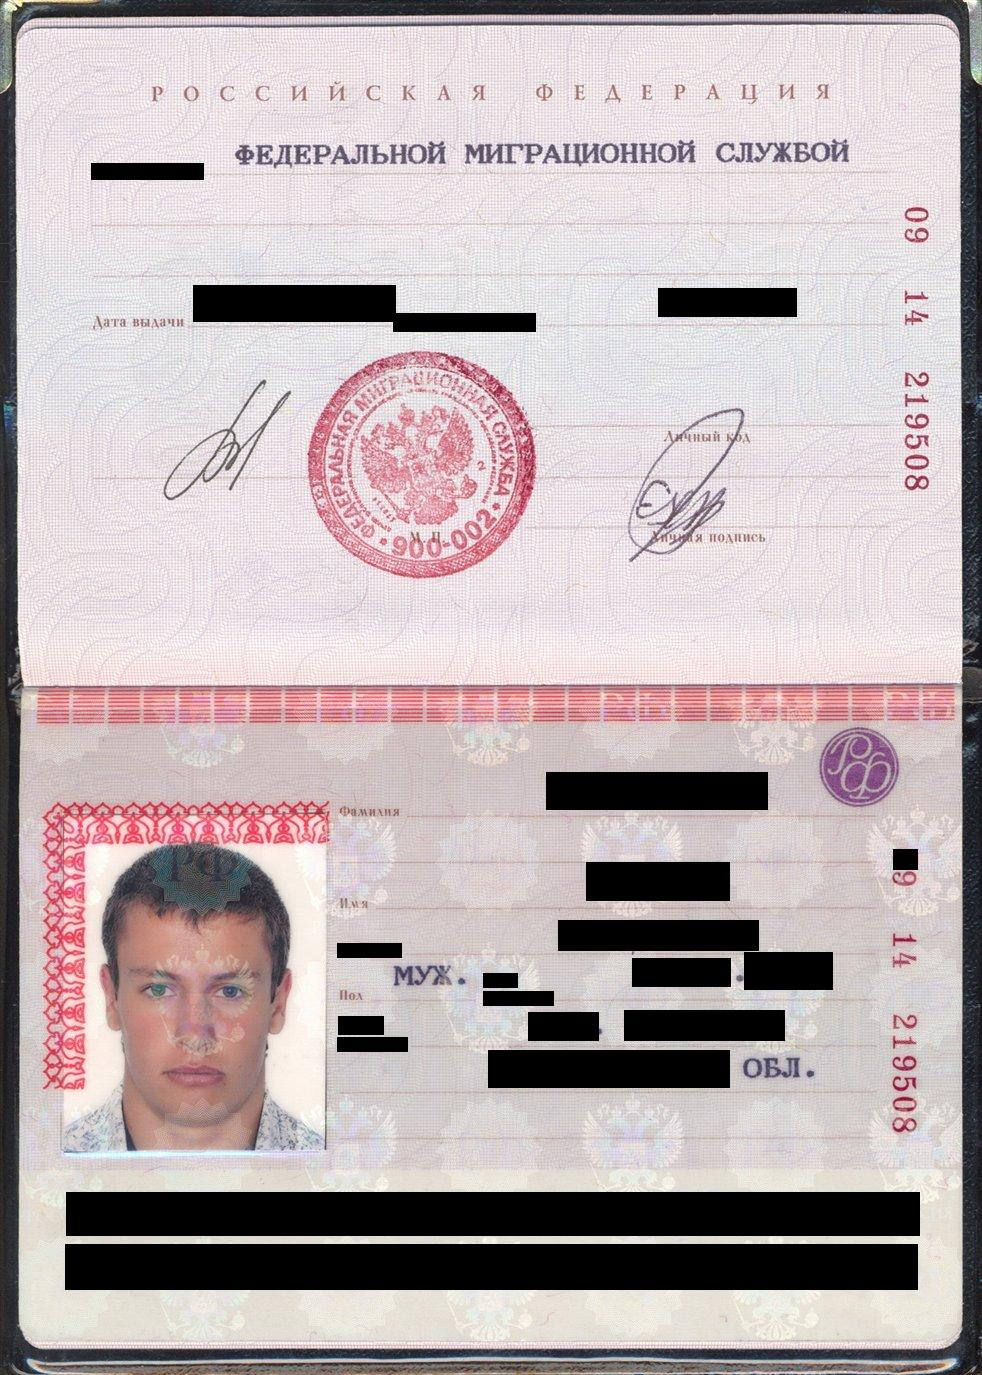
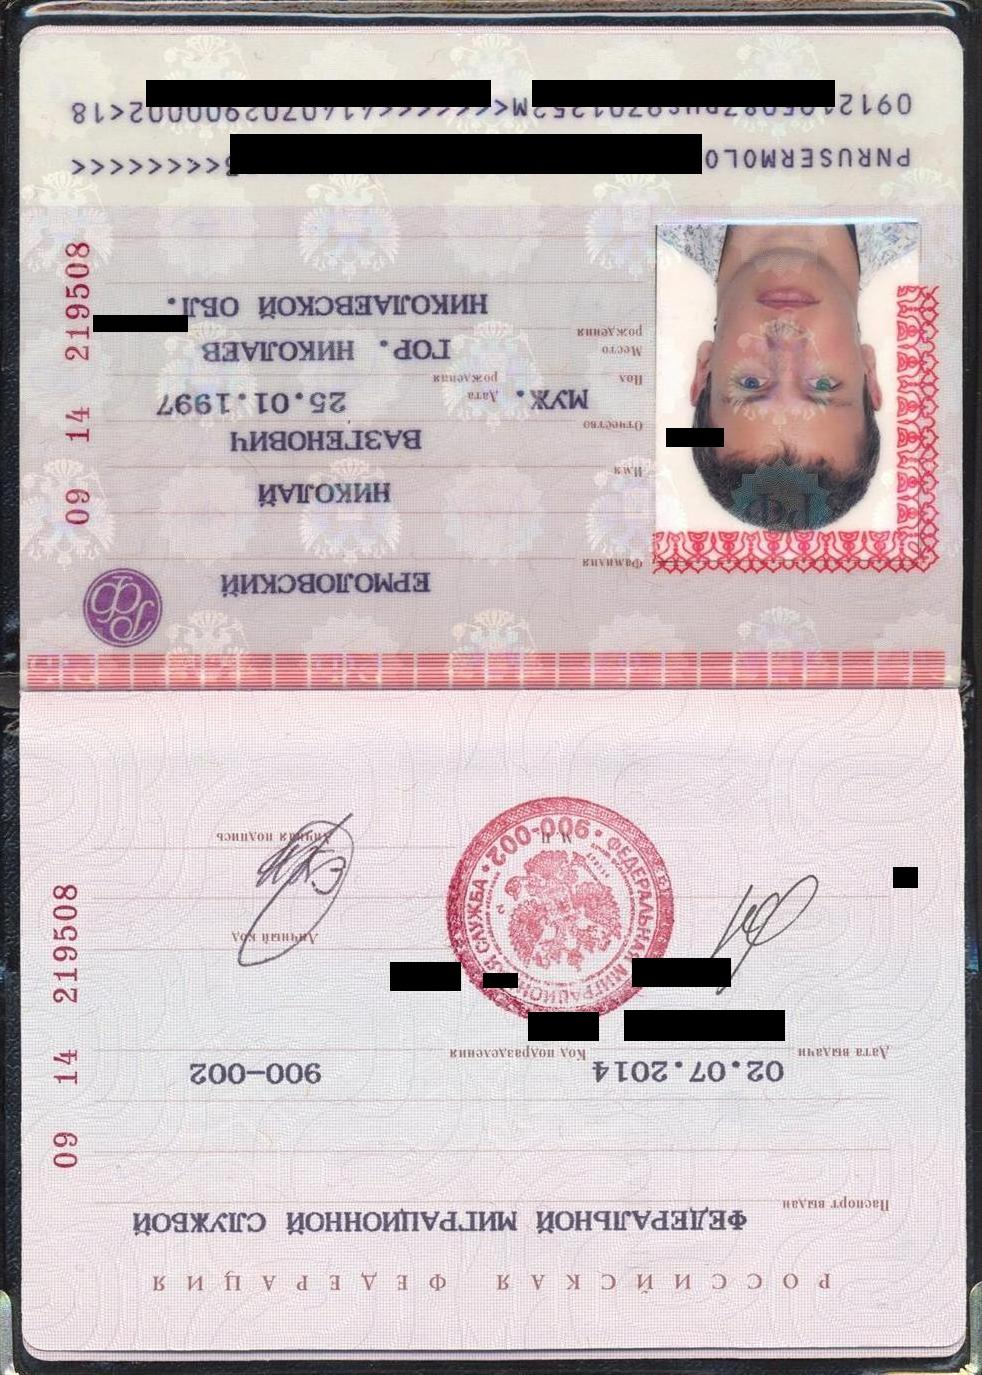
Рабочий блок фото незначительные правки

diff --git a/main.py b/main.py
@@ -14,7 +14,36 @@ from natasha import (
 import re
 from PIL import Image, ImageDraw
 import easyocr
+import os
+from pdf2docx import Converter
 
+
+
+def text_ai(List, result_list, ListExeption, ListADD):
+    segmenter = Segmenter()
+    morph_vocab = MorphVocab()
+    emb = NewsEmbedding()
+
+    morph_tagger = NewsMorphTagger(emb)
+    syntax_parser = NewsSyntaxParser(emb)
+    ner_tagger = NewsNERTagger(emb)
+    names_extractor = NamesExtractor(morph_vocab)
+    text = ", ".join(capitalize_first_letter_in_all(List))
+    doc = Doc(text)
+    doc.segment(segmenter)
+    doc.tag_morph(morph_tagger)
+    doc.parse_syntax(syntax_parser)
+    doc.tag_ner(ner_tagger)
+    for span in doc.spans:
+        if span.type == PER:
+            result_list.append(span.text)
+        if span.type == LOC:
+            result_list.append(span.text)
+    modified_list = find_missing_elements(replace_numbers_with_asterisks(List), List)
+    result_list = ListExeption + filter_unique_elements(List, result_list) + modified_list
+    result_list = remove_duplicates(result_list, ListExeption)
+    result_list = ListADD + result_list
+    return result_list
 def filter_unique_elements(list1, list2):
     # Приводим элементы второго списка к нижнему регистру
     lower_list2 = [item.lower() for item in list2]
@@ -168,7 +197,7 @@ def create_rectangles(image_path, result, words_to_hide, ListCoordinate):
             draw.rectangle([x0, y0, x1, y1], fill="black")
 
     # Save the image with hidden words outside the loop
-    img.save("output_image.jpg")
+    img.save(image_path)
 
 
 def extract_text_from_image(image_path, List, ListCoordinate, languages=['en','ru']):
@@ -180,55 +209,61 @@ def extract_text_from_image(image_path, List, ListCoordinate, languages=['en','r
     for detection in result:
         List.append(detection[1])
         ListCoordinate.append(detection[0])
-
+def rotate_image_180(image_path):
+    # Открываем изображение
+    img = Image.open(image_path)
+    # Поворачиваем изображение на 180 градусов
+    rotated_img = img.rotate(180)
+    # Сохраняем результат
+    rotated_img.save(image_path)
 
 # Press the green button in the gutter to run the script.
 if __name__ == '__main__':
-    ListCoordinate = []
-    file_path = 'text_file.txt'
-    # Path to the image
-    image_path = 'test.jpg'
     file_path_exeption = 'exeption.txt'
+    directory_path = './../output'
     List = []
     result_list = []
     ListADD = ["января", "февраля", "марта", "апреля", "мая", "июня", "июля", "августа", "сентября", "октября", "ноября", "декабря", "мужской", "женский", "Мужской", "Женский"]
     ListExeption = read_and_create_list(file_path_exeption)
-    index = 0
-    extract_text_from_image(image_path, List ,ListCoordinate)
+
+    files = os.listdir(directory_path)
+    file_path = files[0]
+    print(f'Имя файла: {file_path}')
+    if not os.path.isfile(file_path):
+        print(f'Файл не найден: {file_path}')
+
+    # Проверяем разрешение по пути
+    _, extension = os.path.splitext(file_path)
+
+    if extension.lower() == '.pdf':
+        # Если файл PDF, конвертируем его в DOCX
+        docx_path = os.path.splitext(file_path)[0] + '.docx'
+        cv = Converter(file_path)
+        cv.convert(docx_path, start=0, end=None)
+        cv.close()
+        print(f'Конвертация успешно завершена: {file_path} -> {docx_path}')
+    else:
+        print(f'Файл не является PDF: {file_path}')
+
+
+    # Для изображений
+    # ListCoordinate = []
+    # image_path = 'test.jpg'
+    # extract_text_from_image(image_path, List, ListCoordinate)
+    # create_rectangles(image_path, List, text_ai(List, result_list, ListExeption, ListADD), ListCoordinate)
+    # rotate_image_180(image_path)
+    # List.clear()
+    # result_list.clear()
 
 
 
 
-    segmenter = Segmenter()
-    morph_vocab = MorphVocab()
-    emb = NewsEmbedding()
 
-    morph_tagger = NewsMorphTagger(emb)
-    syntax_parser = NewsSyntaxParser(emb)
-    ner_tagger = NewsNERTagger(emb)
 
-    names_extractor = NamesExtractor(morph_vocab)
 
-    # text_first = read_string_from_file(file_path)
-    # text_second = text_first.split()
-    text = ", ".join(capitalize_first_letter_in_all(List))
-    doc = Doc(text)
-    doc.segment(segmenter)
-    doc.tag_morph(morph_tagger)
-    doc.parse_syntax(syntax_parser)
-    doc.tag_ner(ner_tagger)
-    for span in doc.spans:
-        if span.type == PER:
-            result_list.append(span.text)
-        if span.type == LOC:
-            result_list.append(span.text)
-    modified_list = find_missing_elements(replace_numbers_with_asterisks(List), List)
-    result_list = ListExeption + filter_unique_elements(List, result_list) + modified_list
-    result_list = remove_duplicates(result_list, ListExeption)
-    result_list = ListADD + result_list
     # text_end = " ".join(str(item) for item in result_list)
     # save_string_to_file("text_del.txt", text_end)
-    create_rectangles(image_path, List ,result_list ,ListCoordinate)
+
 
     # print(modified_list)
     # replace_elements_with_asterisks(modified_list, result_list)
